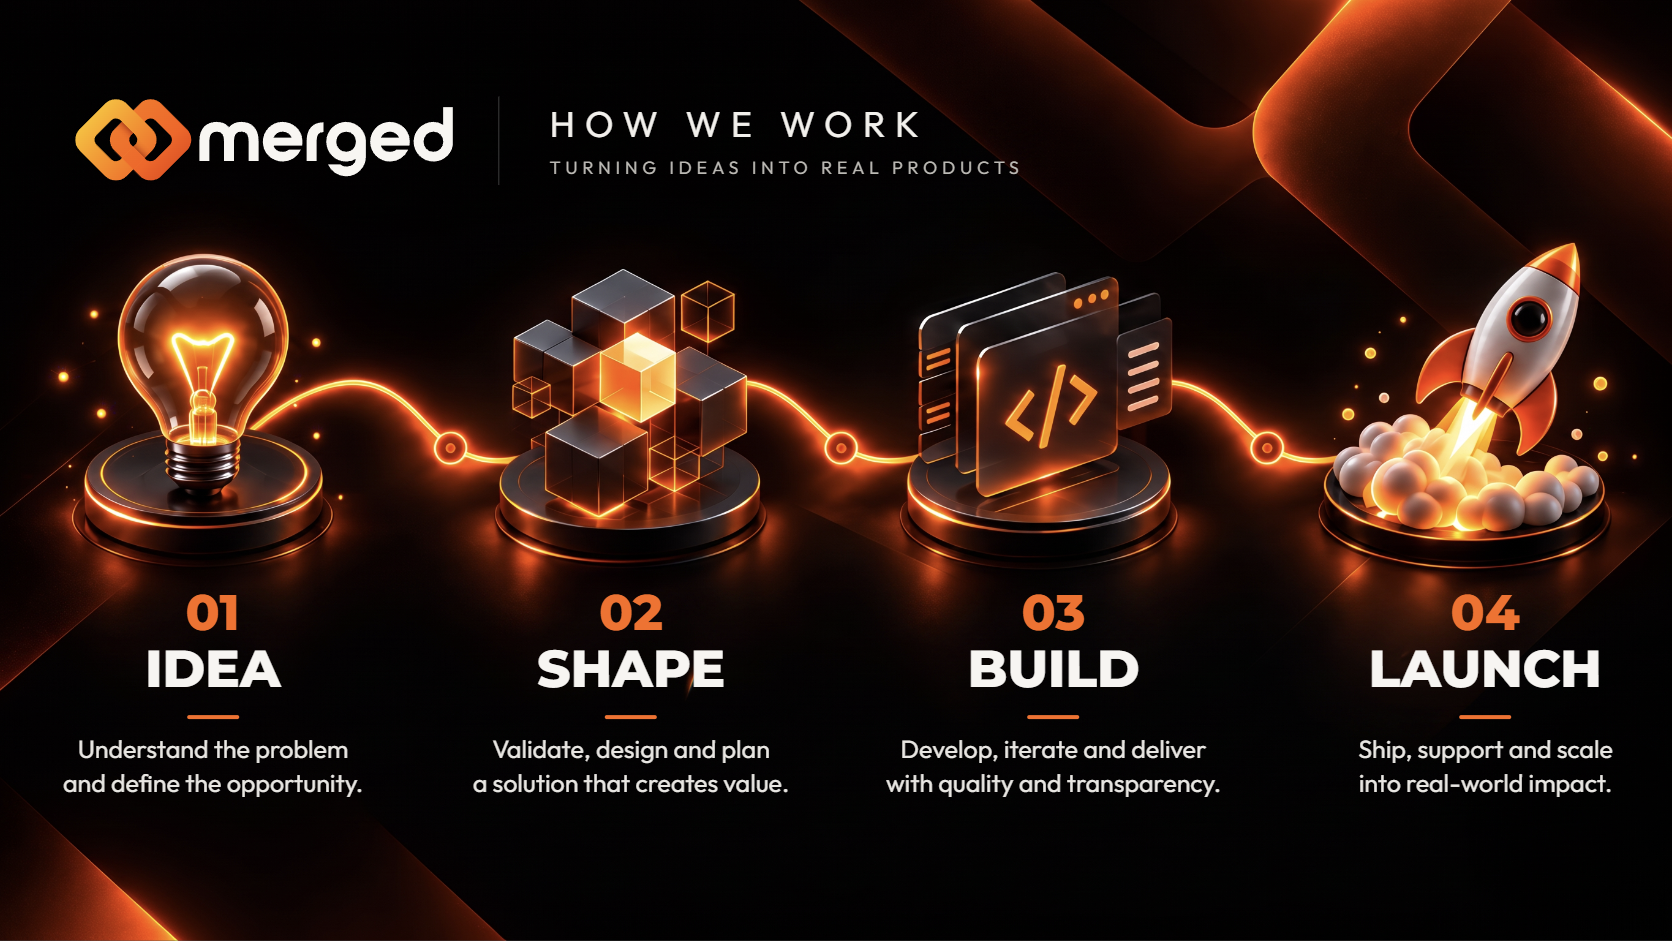
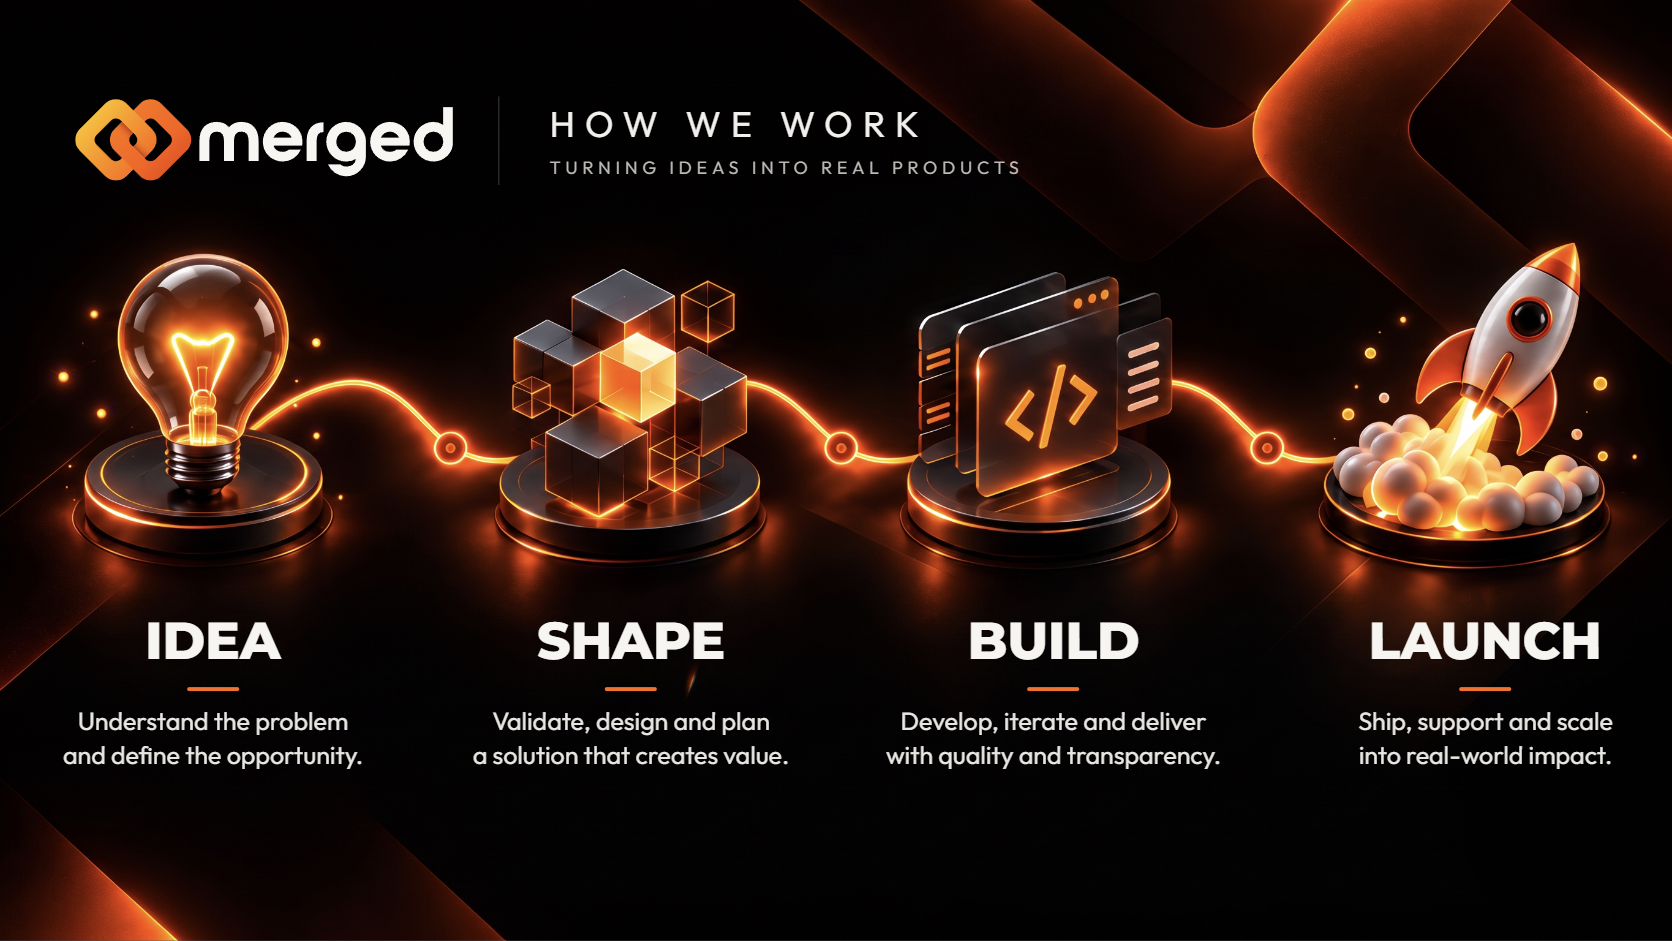
docs: README follows the new brand rules
Section headings without 01/02/03 numbering, banners re-exported from
the brand kit (contact banner, MERGED x, app preview).

diff --git a/profile/README.md b/profile/README.md
@@ -39,7 +39,7 @@ We bring **product thinking, design and engineering** into one process - from de
 
 <td width="25%" valign="top">
 
-### 01 - PRODUCT
+### PRODUCT
 
 **Build the right thing.**
 
@@ -49,7 +49,7 @@ Clear scope, meaningful features and decisions driven by the actual problem - no
 
 <td width="25%" valign="top">
 
-### 02 - DESIGN
+### DESIGN
 
 **Make it feel intentional.**
 
@@ -59,7 +59,7 @@ Clean interfaces, strong hierarchy and consistent visual systems built around us
 
 <td width="25%" valign="top">
 
-### 03 - ENGINEERING
+### ENGINEERING
 
 **Build it properly.**
 
@@ -69,7 +69,7 @@ Maintainable code, sensible architecture and reliable foundations designed to ev
 
 <td width="25%" valign="top">
 
-### 04 - DELIVERY
+### DELIVERY
 
 **Turn it into reality.**
 
@@ -176,13 +176,13 @@ Understand the problem. Define the right solution. Build it properly. Ship somet
 <tr>
 <td width="50%" valign="top">
 
-### 🟠 **PRODUCT OVER FEATURES**
+### **PRODUCT OVER FEATURES**
 We care about whether something should exist, how it should work and what value it creates - not only whether it can be coded.
 
 </td>
 <td width="50%" valign="top">
 
-### 🔗 **DESIGN + ENGINEERING**
+### **DESIGN + ENGINEERING**
 Visual quality, usability and technical decisions should support each other from day one.
 
 </td>
@@ -190,13 +190,13 @@ Visual quality, usability and technical decisions should support each other from
 <tr>
 <td width="50%" valign="top">
 
-### ⚡ **KEEP IT INTENTIONAL**
+### **KEEP IT INTENTIONAL**
 Less noise. Clearer decisions. Strong hierarchy. Clean execution.
 
 </td>
 <td width="50%" valign="top">
 
-### 🚀 **BUILD FOR REALITY**
+### **BUILD FOR REALITY**
 Maintainable software, sensible architecture and products ready for real users.
 
 </td>
